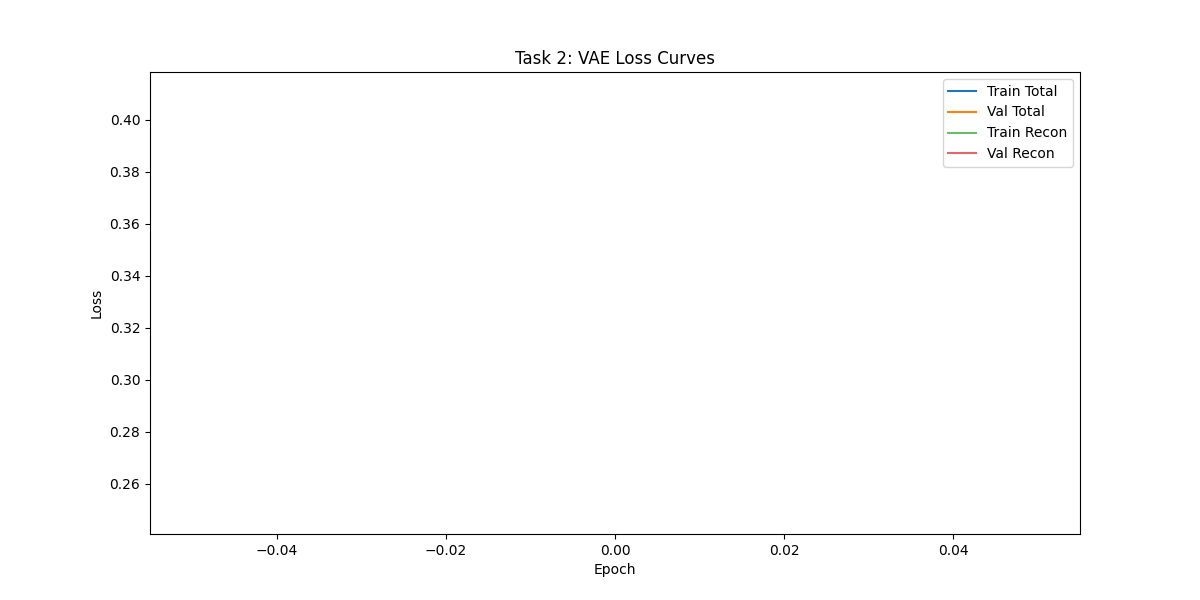
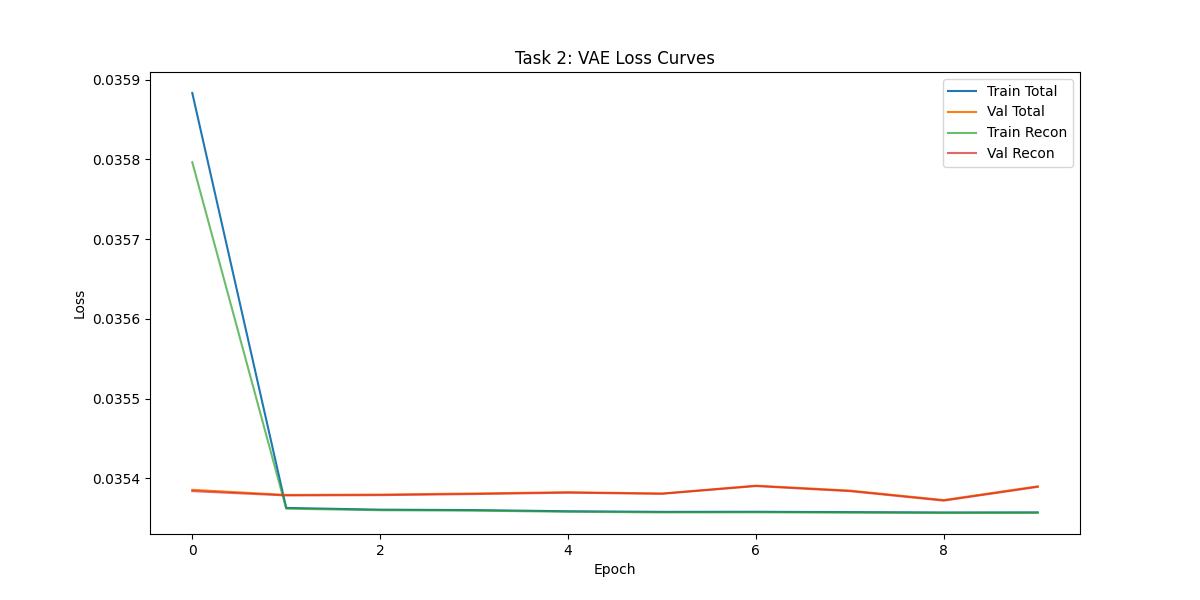
t2 training

diff --git a/src/training/train_transformer.py b/src/training/train_transformer.py
@@ -147,50 +147,14 @@ def sample_next_token(logits: torch.Tensor, temperature: float = 1.0, top_k: int
     return torch.multinomial(probs, num_samples=1)
 
 
-def generate_task3_samples(
-    model: MusicTransformer,
-    genre_id: int,
-    num_samples: int = 10,
-    max_new_tokens: int = 512,
-    temperature: float = 1.0,
-    top_k: int = 10,
-):
-    model.eval()
-
-    with torch.no_grad():
-        for i in range(num_samples):
-            tokens = torch.full((1, 1), BOS_TOKEN_ID, dtype=torch.long, device=DEVICE)
-            genre_tensor = torch.tensor([genre_id], dtype=torch.long, device=DEVICE)
-
-            for _ in range(max_new_tokens):
-                context = tokens[:, -model.max_seq_len :]
-                logits = model(context, genre_ids=genre_tensor)
-                next_logits = logits[:, -1, :]
-                next_token = sample_next_token(next_logits, temperature=temperature, top_k=top_k)
-                tokens = torch.cat([tokens, next_token], dim=1)
-
-                if int(next_token.item()) == EOS_TOKEN_ID:
-                    break
-
-            token_seq = tokens.squeeze(0).cpu().numpy()
-            roll = tokens_to_piano_roll(token_seq, num_pitches=128)
-            pm = piano_roll_to_pretty_midi(roll, fs=FS)
-            out = GENERATED_MIDI_DIR / f"task3_sample_{i}.mid"
-            pm.write(str(out))
-            print(f"[TR] Saved {out}")
-
-
 def train_transformer(
     batch_size: int,
     lr: float,
-    genres: list[str],
     train_max_batches: int | None,
     val_max_batches: int | None,
-    generate_after_train: bool,
-    num_samples: int,
-    max_new_tokens: int,
 ):
     epochs = TRANSFORMER_CONFIG["epochs"]
+    genres = ["lakh"]  # Task 3: multi-genre Transformer trains on Lakh MIDI
     print(f"Using device: {DEVICE}")
 
     x_train, g_train, train_genre_to_id = load_genre_tokens(
@@ -405,61 +369,20 @@ def train_transformer(
             indent=2,
         )
     print(f"[TR] Saved summary to {summary_path}")
-
-    if not generate_after_train:
-        return
-
-    if not resume_path.exists():
-        print(f"[TR] Missing {resume_path}; skipping generation.")
-        return
-
-    payload = torch.load(resume_path, map_location=DEVICE, weights_only=False)
-    model.load_state_dict(payload["model_state_dict"])
-
-    if genre_to_id:
-        default_genre = sorted(genre_to_id.keys())[0]
-        default_genre_id = genre_to_id[default_genre]
-    else:
-        default_genre_id = 0
-
-    generate_task3_samples(
-        model=model,
-        genre_id=default_genre_id,
-        num_samples=num_samples,
-        max_new_tokens=max_new_tokens,
-        temperature=1.0,
-        top_k=10,
-    )
+    print(f"[TR] Training complete. Use 'python src/generation/generate_music.py --model transformer' to generate samples.")
 
 
 if __name__ == "__main__":
     parser = argparse.ArgumentParser()
     parser.add_argument("--batch_size", type=int, default=TRANSFORMER_CONFIG["batch_size"])
     parser.add_argument("--lr", type=float, default=TRANSFORMER_CONFIG["lr"])
-    parser.add_argument(
-        "--genres",
-        type=str,
-        default="maestro",
-        help="Comma-separated genre list (expects data/processed/{genre}_train.npy etc.)",
-    )
     parser.add_argument("--train_max_batches", type=int, default=None, help="Smoke test: cap train batches")
     parser.add_argument("--val_max_batches", type=int, default=None, help="Smoke test: cap val batches")
-    parser.add_argument("--no_generate", action="store_true", help="Skip MIDI generation after training")
-    parser.add_argument("--num_samples", type=int, default=10)
-    parser.add_argument("--max_new_tokens", type=int, default=512)
     args = parser.parse_args()
-
-    genres = [g.strip() for g in args.genres.split(",") if g.strip()]
-    if not genres:
-        genres = ["maestro"]
 
     train_transformer(
         batch_size=args.batch_size,
         lr=args.lr,
-        genres=genres,
         train_max_batches=args.train_max_batches,
         val_max_batches=args.val_max_batches,
-        generate_after_train=not args.no_generate,
-        num_samples=args.num_samples,
-        max_new_tokens=args.max_new_tokens,
     )